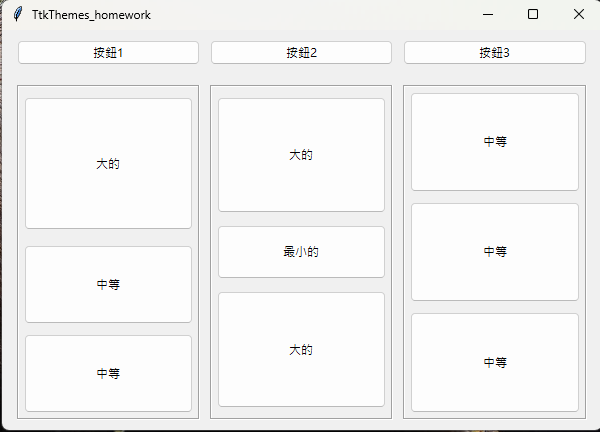
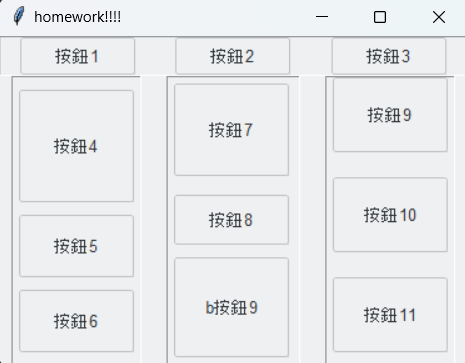
homework

diff --git a/lesson4/test.py b/lesson4/test.py
@@ -1,78 +1,64 @@
-import tkinter as tk
-from tkinter import ttk
 from ttkthemes import ThemedTk
+from tkinter import ttk
 
 
 class Window(ThemedTk):
-    root = ThemedTk()
-    def __init__(self, *args, **kwargs):
-        super().__init__(*args, **kwargs)
-        self.title("TtkThemes_homework")
-        self.geometry("600x400")
-        
-
-    # 創建頂部的按鈕框架
+    def __init__(self, **kwargs):
+        super().__init__(**kwargs)
+        self.title()
+        self.title("homework!!!!")
         style = ttk.Style(self)
+        # ===================TOP FRAME==================================================================#
         topFrame = ttk.Frame(self, borderwidth=1, relief='groove')
-        btn1 = ttk.Button(topFrame, text="按鈕1")
-        btn1.pack(side='left', expand=True, fill='x', padx=10)
-        btn2 = ttk.Button(topFrame, text="按鈕2")
-        btn2.pack(side='left', expand=True, fill='x')
-        btn3 = ttk.Button(topFrame, text="按鈕3")
-        btn3.pack(side='left', expand=True, fill='x', padx=10)
-        topFrame.pack(padx=10, pady=(10, 0), ipadx=10,
-                      ipady=10, expand=True, fill='x')
-        bottomFrame = ttk.Frame(
-            self, width=500, height=300, borderwidth=1, relief='groove')
-        bottomFrame.pack(padx=10, pady=10)   
-    
+        btn1 = ttk.Button(topFrame, text='按鈕1')
+        btn1.pack(side='left', padx=10, expand=True)
+        btn2 = ttk.Button(topFrame, text='按鈕2')
+        btn2.pack(side='left', padx=10, expand=True)
+        btn3 = ttk.Button(topFrame, text='按鈕3')
+        btn3.pack(side='left', padx=10, expand=True)
+        topFrame.pack(ipadx=10, expand=True, fill='x')
+        # ==================End TOP FRAME====================================================#
+        # ===================BOTTOM FRAME===============================================================#
+        buttomFrame = ttk.Frame(self, borderwidth=1, relief='groove')
 
-    # 創建主框架
-        main_frame = ttk.Frame(self)
-        main_frame.pack(fill=tk.BOTH, expand=True, padx=10, pady=10)
-
-    # 在主框架中創建3列
-        for i in range(3):
-            main_frame.columnconfigure(i, weight=1)
-        main_frame.rowconfigure(0, weight=1)
-
-    # 在每列中創建一個框架
-        for col in range(3):
-            column_frame = ttk.Frame(main_frame, relief="groove", borderwidth=2)
-            column_frame.grid(row=0, column=col, sticky="nsew", padx=5)
-            column_frame.columnconfigure(0, weight=1)
-
-        # 根據列的不同，設置不同的按鈕大小
-        if col == 0:  # 左邊列
-            sizes = ["大的", "中等", "中等"]
-        elif col == 1:  # 中間列
-            sizes = ["大的", "最小的", "大的"]
-        else:  # 右邊列
-            sizes = ["中等", "中等", "中等"]
-
-        # 在每個列框架中添加按鈕
-        for row, size in enumerate(sizes):
-            btn = ttk.Button(column_frame, text=size)
-            if size == "大的":
-                btn.grid(row=row, column=0, sticky="nsew",
-                         padx=5, pady=10, ipady=20)
-                column_frame.rowconfigure(row, weight=2)
-            elif size == "中等":
-                btn.grid(row=row, column=0, sticky="nsew",
-                         padx=5, pady=5, ipady=10)
-                column_frame.rowconfigure(row, weight=1)
-            elif size == "最小的":
-                btn.grid(row=row, column=0, sticky="nsew",
-                         padx=5, pady=2, ipady=2)
-                column_frame.rowconfigure(row, weight=1)
-
+        # ===================BOTTOM FRAME LEFT===============================================================#
+        buttomFrameL = ttk.Frame(self, borderwidth=1, relief='groove')
+        btn4 = ttk.Button(buttomFrameL, text='按鈕4')
+        btn4.pack(side='top', ipady=30, padx=5, pady=(10, 5))
+        btn5 = ttk.Button(buttomFrameL, text='按鈕5')
+        btn5.pack(side='top', ipady=10, padx=5, pady=5)
+        btn6 = ttk.Button(buttomFrameL, text='按鈕6')
+        btn6.pack(side='top', ipady=10, padx=5, pady=(5, 10))
+        buttomFrameL.pack(side='left', expand=True, fill='y', padx=10)
+        # ===================End BOTTOM FRAME LEFT===============================================================#
+        # ===================BOTTOM FRAME CENTER===============================================================#
+        buttomFrameC = ttk.Frame(self, borderwidth=1, relief='groove')
+        btn7 = ttk.Button(buttomFrameC, text='按鈕7')
+        btn7.pack(side='top', ipady=22, padx=(5, 8), pady=(5, 10))
+        btn8 = ttk.Button(buttomFrameC, text='按鈕8')
+        btn8.pack(side='top', ipady=5, padx=(5, 8), pady=5)
+        btn9 = ttk.Button(buttomFrameC, text='b按鈕9')
+        btn9.pack(side='top', ipady=25, padx=(5, 8), pady=5)
+        buttomFrameC.pack(side='left', expand=True, fill='y', padx=10)
+        # ===================End BOTTOM FRAME CENTER===============================================================#
+        # ===================BOTTOM FRAME RIGHT===============================================================#
+        buttomFrameR = ttk.Frame(self, borderwidth=1, relief='groove')
+        btn10 = ttk.Button(buttomFrameR, text='按鈕9')
+        btn10.pack(side='top', ipady=15, padx=5, pady=(0, 10))
+        btn11 = ttk.Button(buttomFrameR, text='按鈕10')
+        btn11.pack(side='top', ipady=15, padx=5, pady=10)
+        btn12 = ttk.Button(buttomFrameR, text='按鈕11')
+        btn12.pack(side='top', ipady=15, padx=5, pady=10)
+        buttomFrameR.pack(side='left', expand=True, fill='y', padx=10)
+        # ===================End BOTTOM FRAME Right===============================================================#
+        buttomFrame.pack(expand=True, fill='x')
+        # ===================End BOTTOM FRAME===============================================================#
 
 
 def main():
-    window = Window(theme="arc")
-    window.mainloop()
+    root = Window(theme='breeze')
+    root.mainloop()
 
 
-if __name__ == "__main__":
+if __name__ == '__main__':
     main()
-    

diff --git a/lesson4/homework.py b/lesson4/homework.py
@@ -8,7 +8,7 @@ def Window():
     root.title("TtkThemes_homework")
     root.geometry("600x400")
 
-    # 創建頂部的按鈕框架
+    # =========創建頂部的按鈕框架
     top_frame = ttk.Frame(root)
     top_frame.pack(fill=tk.X, padx=10, pady=10)
 
